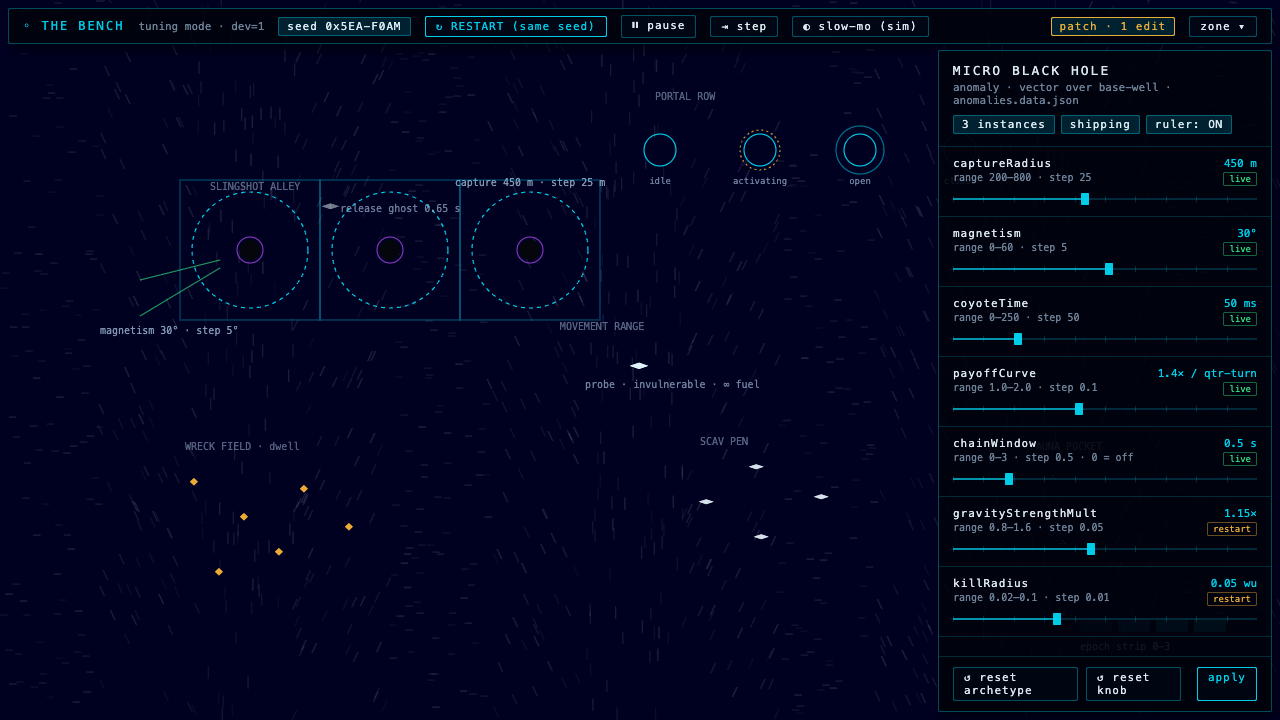
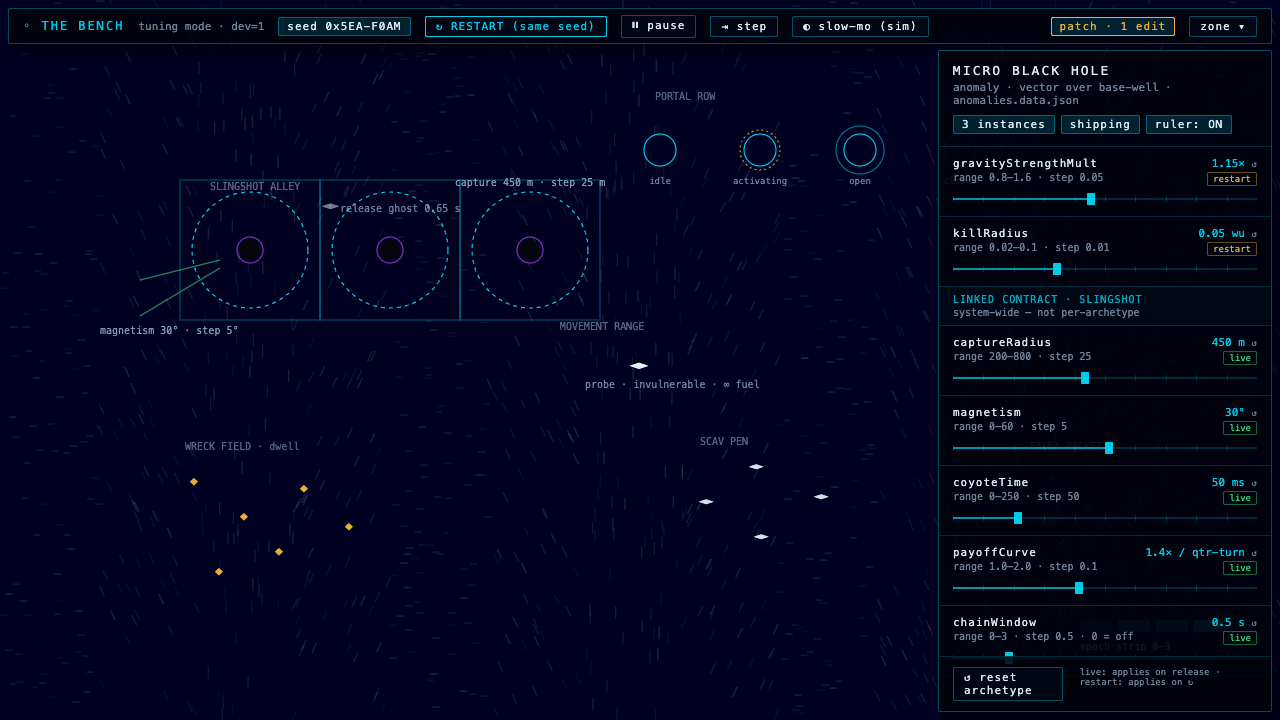
Docs: Bench mockups aligned to ratified interaction model — hot-apply (no apply button), per-knob reset, linked-contract divider
Claude-Session: https://claude.ai/code/session_01GTFwj4MhovZ4wV6mZpdH91

diff --git a/docs/v0.3/reviews/bench-mockups/bench-mock.html b/docs/v0.3/reviews/bench-mockups/bench-mock.html
@@ -72,8 +72,8 @@
     <div class="ipills" id="iPills"></div>
   </div>
   <div id="knobs"></div>
-  <div class="ifoot"><span class="btn">↺ reset archetype</span><span class="btn">↺ reset knob</span>
-    <span class="spacer"></span><span class="btn primary">apply</span></div>
+  <div class="ifoot"><span class="btn">↺ reset archetype</span>
+    <span class="spacer"></span><span class="muted" style="font-size:9px">live: applies on release · restart: applies on ↻</span></div>
 </div>
 
 <div class="panel" id="hint">click any entity to inspect its archetype</div>
@@ -158,13 +158,14 @@ const CONTRACTS={
   hole:{name:'MICRO BLACK HOLE',type:'anomaly · vector over base-well · anomalies.data.json',
     pills:['3 instances','shipping','ruler: ON'],
     knobs:[
+      ['gravityStrengthMult','1.15×','range 0.8–1.6 · step 0.05','restart',0.44],
+      ['killRadius','0.05 wu','range 0.02–0.1 · step 0.01','restart',0.33],
+      ['__group','LINKED CONTRACT · SLINGSHOT','system-wide — not per-archetype','',0],
       ['captureRadius','450 m','range 200–800 · step 25','live',0.42],
       ['magnetism','30°','range 0–60 · step 5','live',0.5],
       ['coyoteTime','50 ms','range 0–250 · step 50','live',0.2],
       ['payoffCurve','1.4× / qtr-turn','range 1.0–2.0 · step 0.1','live',0.4],
-      ['chainWindow','0.5 s','range 0–3 · step 0.5 · 0 = off','live',0.17],
-      ['gravityStrengthMult','1.15×','range 0.8–1.6 · step 0.05','restart',0.44],
-      ['killRadius','0.05 wu','range 0.02–0.1 · step 0.01','restart',0.33]]},
+      ['chainWindow','0.5 s','range 0–3 · step 0.5 · 0 = off','live',0.17]]},
   scav:{name:'SCAVENGER · DRIFTER CLASS',type:'hostile · absolute speed class · scavengers contract',
     pills:['4 instances','edits propagate to all','ruler: ON'],
     knobs:[
@@ -179,8 +180,11 @@ function showInspector(key){ const c=CONTRACTS[key]; const el=document.getElemen
   document.getElementById('iName').textContent=c.name;
   document.getElementById('iType').textContent=c.type;
   document.getElementById('iPills').innerHTML=c.pills.map(p=>`<span class="pill">${p}</span>`).join('');
-  document.getElementById('knobs').innerHTML=c.knobs.map(k=>`
-    <div class="knob"><div class="krow"><span class="kname">${k[0]}</span><span class="kval">${k[1]}</span></div>
+  document.getElementById('knobs').innerHTML=c.knobs.map(k=> k[0]==='__group' ? `
+    <div class="knob" style="padding:7px 14px;background:rgba(0,14,30,0.5)">
+    <div class="krow"><span class="kname" style="color:rgba(0,226,255,0.75);font-size:10px">${k[1]}</span></div>
+    <div class="kmeta"><span>${k[2]}</span></div></div>` : `
+    <div class="knob"><div class="krow"><span class="kname">${k[0]}</span><span><span class="kval">${k[1]}</span> <span class="muted" style="font-size:9px">↺</span></span></div>
     <div class="kmeta"><span>${k[2]}</span><span class="badge ${k[3]}">${k[3]}</span></div>
     <div class="slider"><div class="ticks"></div><div class="track"></div>
     <div class="fill" style="width:${k[4]*100}%"></div><div class="thumb" style="left:${k[4]*100}%"></div></div></div>`).join(''); }

diff --git a/docs/v0.3/reviews/v0.3.1-tuning-mode-spec.md b/docs/v0.3/reviews/v0.3.1-tuning-mode-spec.md
@@ -83,6 +83,21 @@ selection; everything is absent from release builds. Completion MD to
 `docs/v0.3/reviews/completions/` per the standing contract — include a
 capture of the inspector open over the slingshot alley.
 
+## Interaction model (ratified; mockups encode this)
+
+- **Live knobs hot-apply on slider release** — there is NO apply button;
+  the ruler contract's slider-moves-geometry-same-frame rule is the
+  interaction. Restart knobs bank until ↻ RESTART (same seed).
+- **Reset is per-knob (row glyph) and per-archetype (footer).**
+- **Inspector is archetype-first**: the entity's own contract leads;
+  system-wide contracts that surface through this entity (e.g. the
+  slingshot contract on wells/holes) appear under an explicit
+  "LINKED CONTRACT" divider marked system-wide — editing them there
+  edits the system, and the panel says so.
+- Mockups: `bench-mockups/bench-mock-{1..4}.png` (gallery, micro-hole
+  inspector with linked contract, scavenger propagation, tuning patch);
+  `bench-mock.html` is the layout reference, built on UI_COLORS tokens.
+
 ## Non-goals (v1)
 
 Per-instance overrides; layout/scene editing; asset editing; undo
